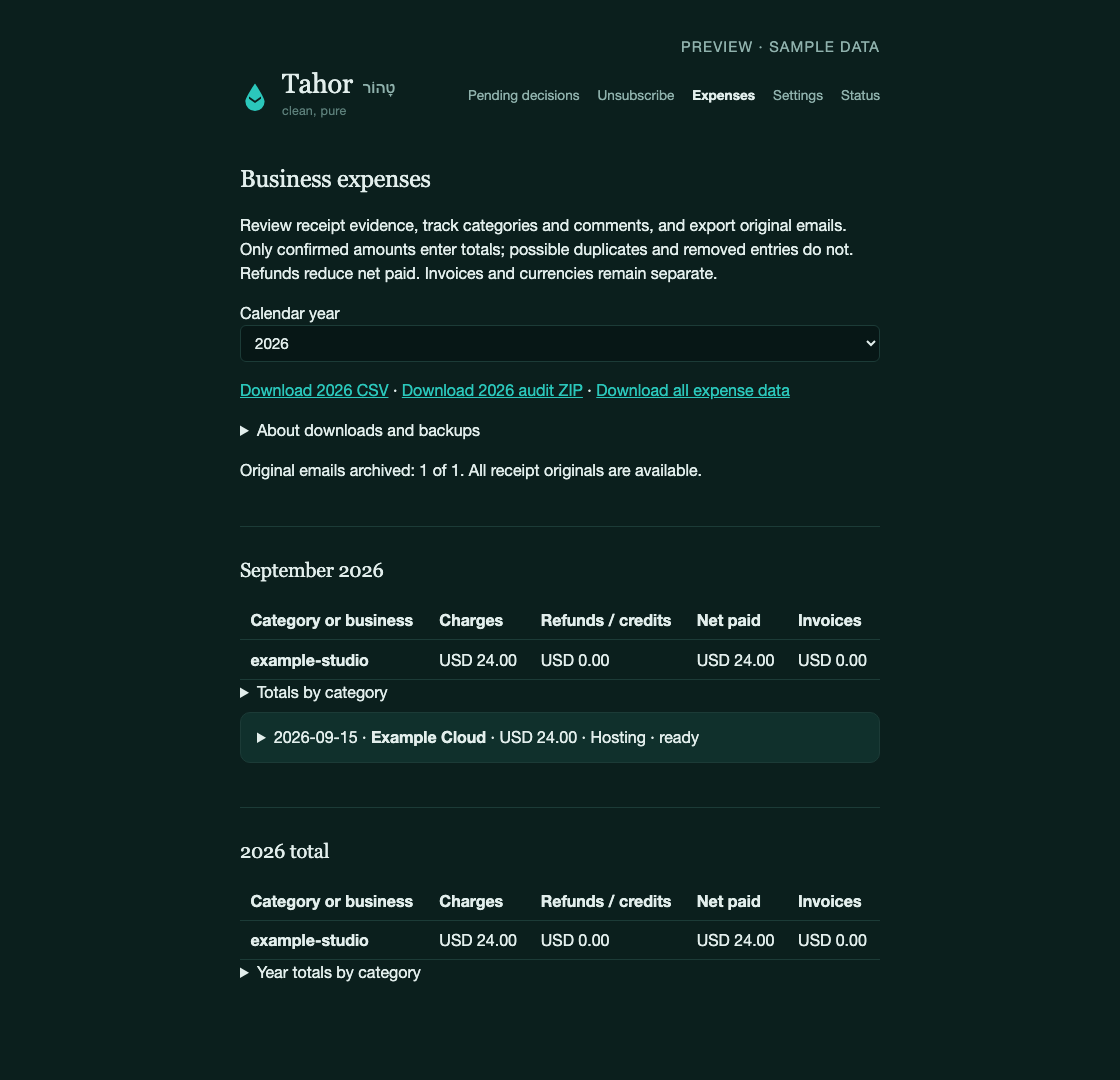
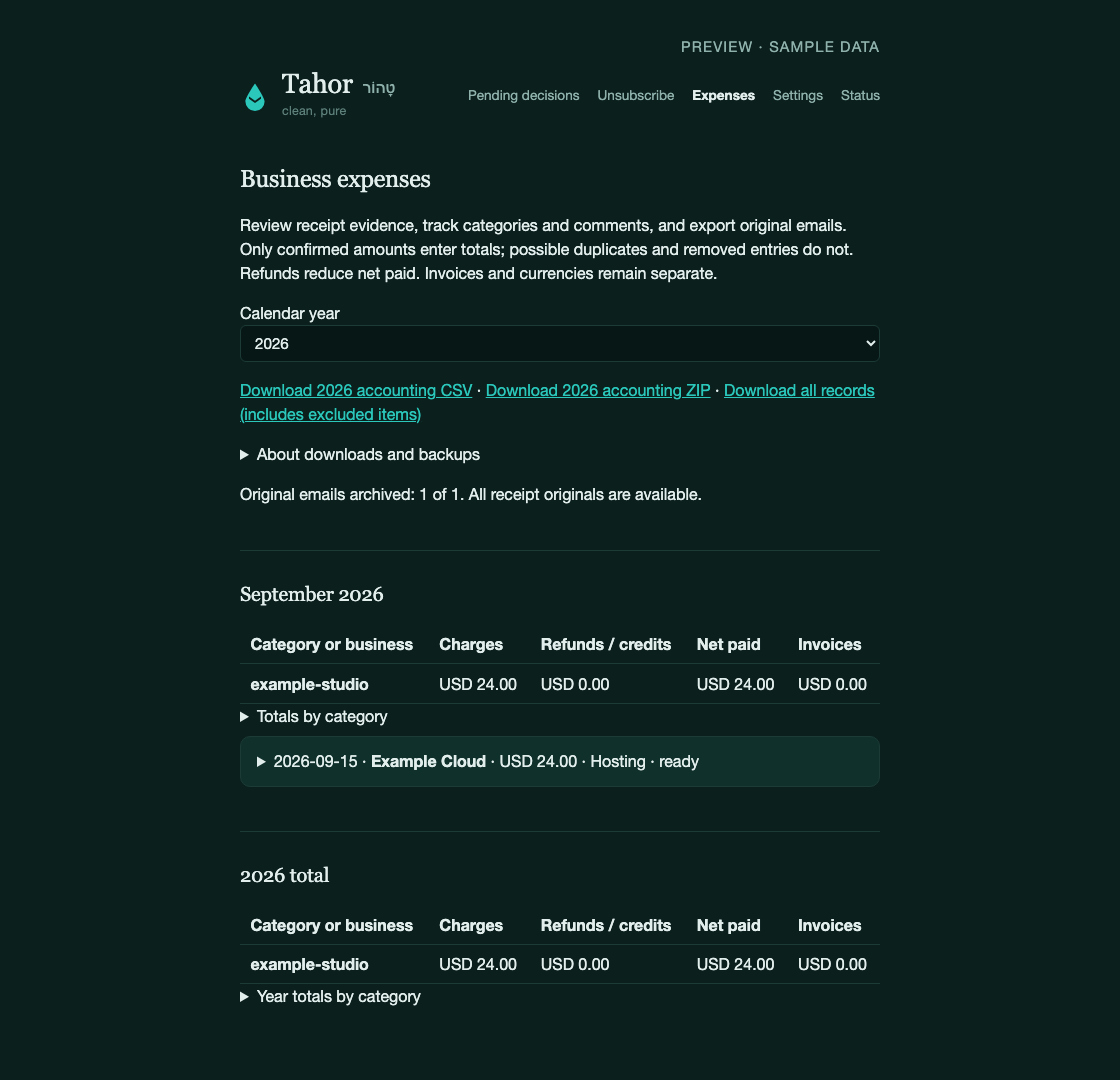
Separate accounting downloads from full expense recovery records

Changed region(s): [[0.2188, 0.5194, 0.7812, 0.7333], [0.2188, 0.7639, 0.7812, 0.9472], [0.2188, 0.3361, 0.7812, 0.4889]]

diff --git a/expense_ui.py b/expense_ui.py
@@ -71,7 +71,7 @@ def _card(item, year):
                 + ('<label><input type="checkbox" name="distinct_document" value="1" required> I verified this is a separate transaction, not a duplicate.</label>' if item['duplicate_of'] else '')
                 + f'<div class="actions"><button type="submit">Confirm expense</button><button type="submit" formaction="/expenses/{identifier}/metadata" formnovalidate>Save category and comment only</button></div></form>')
     details += f'<form method="post" action="/expenses/{identifier}/suggest-category">{hidden}<button>Suggest all fields with AI</button></form>'
-    details += f'<form method="post" action="/expenses/{identifier}/exclude">{hidden}<button type="submit">Remove from Expenses</button><span class="hint"> Removes this entry from the page and totals. Its audit record and email remain available in exports.</span></form>'
+    details += f'<form method="post" action="/expenses/{identifier}/exclude">{hidden}<button type="submit">Remove from Expenses</button><span class="hint"> Removes this entry from the page and totals. Also excludes it from accounting downloads. Its filed email and private recovery record are preserved.</span></form>'
     actual_category = item.get('category') or (category + ' (suggested)' if category else 'Uncategorized')
     summary = f'<span>{escape(item["document_date"] or "Date needs review")}</span> · <strong>{escape(item["vendor"])}</strong> · {escape(shown)} · {escape(actual_category)} · {escape(item["status"].replace("_", " "))}'
     return f'<details class="card expense-row" id="expense-{identifier}" style="padding:.7rem 1rem;margin:.5rem 0"><summary>{summary}</summary><p>{escape(item["document_type"])}{" · email date" if item["date_basis"] == "email_date" else ""}</p><p><a href="/expenses/message/{identifier}">View receipt email</a></p>{details}</details>'
@@ -84,8 +84,8 @@ def render(entries, totals, *, year=None, report=None, years=None, archive_statu
     options = ''.join(f'<option value="{value}"{" selected" if value == year else ""}>{value}</option>' for value in years)
     body = '<style>.expense-totals{width:100%;border-collapse:collapse}.expense-totals th,.expense-totals td{padding:.45rem .65rem;text-align:left;white-space:nowrap;border-bottom:1px solid var(--rule)}.expense-row>summary{line-height:1.6;cursor:pointer}</style><h1>Business expenses</h1><p>Review receipt evidence, track categories and comments, and export original emails. Only confirmed amounts enter totals; possible duplicates and removed entries do not. Refunds reduce net paid. Invoices and currencies remain separate.</p>'
     body += f'<form method="get" action="/expenses"><label>Calendar year <select name="year" onchange="this.form.submit()">{options}</select></label><noscript><button>Show year</button></noscript></form>'
-    body += f'<p><a href="/expenses.csv?year={year}">Download {year} CSV</a> · <a href="/expenses.zip?year={year}">Download {year} audit ZIP</a> · <a href="/expenses.zip?scope=all">Download all expense data</a></p>'
-    body += '<details><summary>About downloads and backups</summary><p class="hint">ZIPs contain the ledger, comments, categories, audit records, and available original .eml files, named by month, category, vendor, and entry ID. The manifest lists any originals still awaiting archive. Automatic recovery backups include this data; configure an off-server destination using the recovery instructions.</p></details>'
+    body += f'<p><a href="/expenses.csv?year={year}">Download {year} accounting CSV</a> · <a href="/expenses.zip?year={year}">Download {year} accounting ZIP</a> · <a href="/expenses.zip?scope=all&amp;purpose=records">Download all records (includes excluded items)</a></p>'
+    body += '<details><summary>About downloads and backups</summary><p class="hint">Accounting downloads contain only ready receipts and refunds, excluding removed items, possible duplicates, unpaid invoices, and items awaiting review. Remove from Expenses any other-business costs or non-expenses; this does not delete their emails. The separate all-records download is for recovery, not accounting, and includes excluded items. ZIPs contain the ledger, comments, categories, audit records, and available original .eml files, named by month, category, vendor, and entry ID. The manifest lists any originals still awaiting archive. Automatic recovery backups include this data; configure an off-server destination using the recovery instructions.</p></details>'
     if archive_status:
         body += '<p>Original emails archived: ' + str(archive_status['archived']) + ' of ' + str(archive_status['total']) + '. ' + ('All receipt originals are available.' if archive_status['complete'] else 'Some originals are still awaiting recovery; exports explicitly list missing files.') + '</p>'
     active = [item for item in entries if item['status'] != 'excluded']
@@ -109,5 +109,5 @@ def render(entries, totals, *, year=None, report=None, years=None, archive_statu
         body += '<section><h2>Date needs review</h2>' + ''.join(_card(item,year) for item in by_month['undated']) + '</section>'
     body += f'<section id="year-total"><h2>{year} total</h2>' + _totals(totals) + '<details><summary>Year totals by category</summary>' + _totals(report.get('categories',[])) + '</details></section>'
     if not active:
-        body += '<p>No active expenses for this year. Removed entries remain in the audit export.</p>'
+        body += '<p>No active expenses for this year. Removed entries stay out of accounting downloads; their emails and recovery records are preserved.</p>'
     return body

diff --git a/tests/test_expense_ui.py b/tests/test_expense_ui.py
@@ -55,7 +55,7 @@ class ExpensePageTests(AppTestCase):
         self.assertIn('year=2026',response.headers['Location'])
         body=self.client.get('/expenses?year=2026').get_data(as_text=True)
         self.assertNotIn('&lt;Example &amp; Co&gt;',body)
-        self.assertIn('excluded',self.client.get('/expenses.csv?year=2026').get_data(as_text=True))
+        self.assertNotIn('excluded',self.client.get('/expenses.csv?year=2026').get_data(as_text=True))
 
     def test_notes_category_and_ai_acceptance_do_not_confirm_amounts(self):
         route='/expenses/'+str(self.identifier)+'/metadata'
@@ -108,3 +108,24 @@ class ExpensePageTests(AppTestCase):
         self.assertNotIn('value="Example Software"',body)
         self.assertNotIn('Developer tool usage',body)
         self.assertEqual(business_ledger.get_entry(self.identifier)['amount_minor'],2400)
+
+    def test_accounting_downloads_exclude_removed_unpaid_unreviewed_and_duplicates(self):
+        import io, json, zipfile, csv
+        base=business_ledger.get_entry(self.identifier)
+        for label, updates in [('excluded', {'status':'excluded'}), ('invoice', {'document_type':'invoice'}), ('pending', {'status':'review_needed'}), ('duplicate', {'duplicate_of':self.identifier})]:
+            row=dict(base, id=100+len(label), **updates)
+            with patch.object(business_ledger, 'list_entries', return_value=[base,row]):
+                response=self.client.get('/expenses.zip?year=2026')
+                with zipfile.ZipFile(io.BytesIO(response.data)) as archive:
+                    self.assertEqual([x['id'] for x in json.loads(archive.read('ledger.json'))],[self.identifier])
+                    self.assertEqual(len(list(csv.DictReader(io.StringIO(archive.read('expenses.csv').decode())))),1)
+                response.close()
+                text=self.client.get('/expenses.csv?year=2026').get_data(as_text=True)
+                self.assertEqual(len(list(csv.DictReader(io.StringIO(text)))),1)
+                response=self.client.get('/expenses.zip?year=2026&purpose=records')
+                with zipfile.ZipFile(io.BytesIO(response.data)) as archive:
+                    self.assertEqual(len(json.loads(archive.read('ledger.json'))),2)
+                response.close()
+        refund=dict(base,document_type='refund',amount_minor=-2500)
+        self.assertEqual(business_ledger.accounting_entries([refund]),[refund])
+        self.assertEqual(self.client.get('/expenses.zip?purpose=typo').status_code,400)

diff --git a/decision-app/app.py b/decision-app/app.py
@@ -1381,7 +1381,8 @@ def expenses_page():
 def expenses_csv():
     import business_ledger
     year = expense_year(allow_all=True)
-    response = Response(business_ledger.export_csv(year=year), mimetype='text/csv')
+    entries = business_ledger.accounting_entries(business_ledger.list_entries(year=year))
+    response = Response(business_ledger.export_csv(rows=entries), mimetype='text/csv')
     response.headers['Content-Disposition'] = 'attachment; filename="business-expenses-' + str(year or 'all') + '.csv"'
     return response
 
@@ -1392,11 +1393,15 @@ def expenses_zip():
     import business_ledger, expense_archive
     year = expense_year(allow_all=True)
     entries = business_ledger.list_entries(year=year)
+    purpose = request.args.get('purpose', 'accounting')
+    if purpose not in ('accounting', 'records'): abort(400)
+    if purpose == 'accounting':
+        entries = business_ledger.accounting_entries(entries)
     try:
         stream = expense_archive.export_zip(entries, business_ledger.export_csv(rows=entries))
     except (ValueError, RuntimeError):
         return 'The archive could not be generated safely. Try one calendar year at a time.', 409
-    response = send_file(stream, mimetype='application/zip', as_attachment=True, download_name='business-expenses-' + str(year or 'all') + '.zip', conditional=False)
+    response = send_file(stream, mimetype='application/zip', as_attachment=True, download_name='business-' + ('records-' if purpose == 'records' else 'expenses-') + str(year or 'all') + '.zip', conditional=False)
     response.call_on_close(stream.close)
     return response
 

diff --git a/business_ledger.py b/business_ledger.py
@@ -545,6 +545,13 @@ def _csv_safe(value):
     return "'"+text if text.lstrip().startswith(('=','+','-','@')) else text
 
 
+def accounting_entries(rows):
+    """Paid accounting evidence only; recovery records remain in the ledger."""
+    return [row for row in rows if row['status'] == 'ready'
+            and not row['duplicate_of'] and row['document_type'] in ('receipt', 'refund')
+            and row['currency'] in UNITS and type(row['amount_minor']) is int]
+
+
 def export_csv(business_key=None, year=None, rows=None):
     stream = io.StringIO(newline='')
     writer = csv.writer(stream)

diff --git a/docs/business-ledger.md b/docs/business-ledger.md
@@ -36,7 +36,9 @@ Remove from Expenses immediately hides an entry and excludes it from totals. The
 
 The ledger, owner-review history, and immutable original-email archive are tables in Tahor's private `decisions.db`. Existing database snapshots and the [off-host recovery schedule](private-backups.md) therefore back them up together. Recovery validates the snapshot before restoring it. An automatic off-host schedule must be configured on a separate trusted device; a backup on the Tahor server alone does not protect against losing that server. Keep originals, exported files, private business rules, and recovery copies out of the public source repository.
 
-The Expenses page offers an accounting ZIP for the selected year or all years. It contains:
+The Expenses page offers accounting CSV and ZIP downloads for the selected year. These contain only ready receipts and refunds, excluding removed entries, possible duplicates, unpaid invoices, and items awaiting review. Use **Remove from Expenses** for non-expenses and costs belonging to another business; the filed email stays saved. A bill and its paid receipt are not both counted: unpaid invoices are omitted from accounting downloads. Duplicate receipt detection still depends on matching source identities or document references; review unrelated-looking copies rather than assuming identical amounts prove a duplicate.
+
+**Download all records (includes excluded items)** is a separate recovery ZIP, not an accounting report. It retains all years and all review states. Each ZIP contains:
 
 - `expenses.csv`, including review states and owner annotations.
 - `ledger.json`, retaining the complete exported ledger records.
@@ -50,7 +52,7 @@ The page reports missing originals. If any source has not been captured or fails
 
 This version limits each original email to **50 MiB**, the complete original-email archive to **512 MiB**, and the uncompressed accounting export payload to **512 MiB**. These limits bound memory, disk, and recovery-transfer costs. Reaching the archive limit does not remove any existing evidence or mailbox message; further captures remain pending. Exports over the download limit fail with an explicit error; select a single year to reduce their size. Larger archives require a future storage-capacity extension rather than silently dropping receipts.
 
-From an installed checkout, generate a new private CSV file using the same environment file as the running service:
+From an installed checkout, generate a full-records private CSV file (including excluded and unreviewed records, for recovery rather than accounting) using the same environment file as the running service:
 
 ```sh
 python business_ledger.py --env ~/.config/tahor/config.env \

diff --git a/README.md b/README.md
@@ -214,10 +214,12 @@ Compact rows expand for receipt previews, comments, AI-filled fields, and
 amount review. Monthly and annual summaries show charges, refund credits, and
 net paid, with expandable category totals. Invoices and currencies remain
 separate; uncertain amounts and duplicates stay out of totals. Remove an entry
-from the page without deleting its email or audit history.
+from the page and accounting downloads without deleting its filed email or private audit history.
 
-Download a year or all expense data as a ZIP containing CSV, ledger and review
-history, and original `.eml` files with attachments. Receipt filenames include
+Accounting CSV and ZIP downloads include only ready receipts and refunds, excluding
+removed items, possible duplicates, unpaid invoices, and items awaiting review.
+The separately labeled all-records ZIP preserves everything for recovery, including
+excluded items. ZIPs contain CSV, ledger and review history, and original `.eml` files with attachments. Receipt filenames include
 the month, category, vendor, and entry ID. A manifest identifies any originals
 still awaiting recovery. The five-minute expense worker archives source emails
 and proposes vendor, date, type, reference, amount, currency, bookkeeping category,
